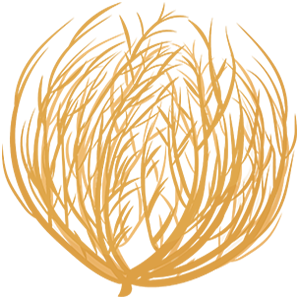
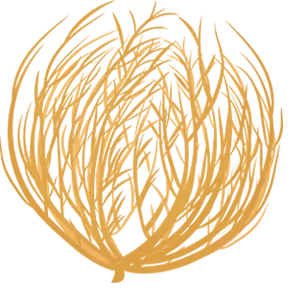
added speed and asymmetry

diff --git a/index.html b/index.html
@@ -296,7 +296,7 @@ background-position: -960px 0;
     transition-duration: 0.3s;
 }
 .slide {
-    animation: slide 15s cubic-bezier(0, 0, 0, 0) 5s both;
+    animation: slide 10s cubic-bezier(0, 0, 0, 0) 5s both;
 }
 @keyframes slide {
 0% {
@@ -308,11 +308,11 @@ transform: translateX(102vw);
 }
 .bubble {
     position: relative;
-    left: 240px;
-    bottom: -20px;
+    left: 230px;
+    bottom: -60px;
     height: 164px;
     width: 239px;
-    animation: bubble 10s cubic-bezier(0, 0, 0, 0) 6s both;
+    animation: bubble 10s cubic-bezier(0, 0, 0, 0) 5s both;
 }
 @keyframes bubble {
 0% {
@@ -339,8 +339,14 @@ transform: rotate(720deg);
 }
 }
 .tumbleweed {
-    animation: rotation 4s linear infinite;
+    animation: rotation 3s linear infinite;
 }
+    @media (max-width: 1920px) {
+        .slide {
+            animation: slide 8s cubic-bezier(0, 0, 0, 0) 5s both;
+        }
+    }
+
 </style>
 <!-- InstanceEndEditable -->
 </head>